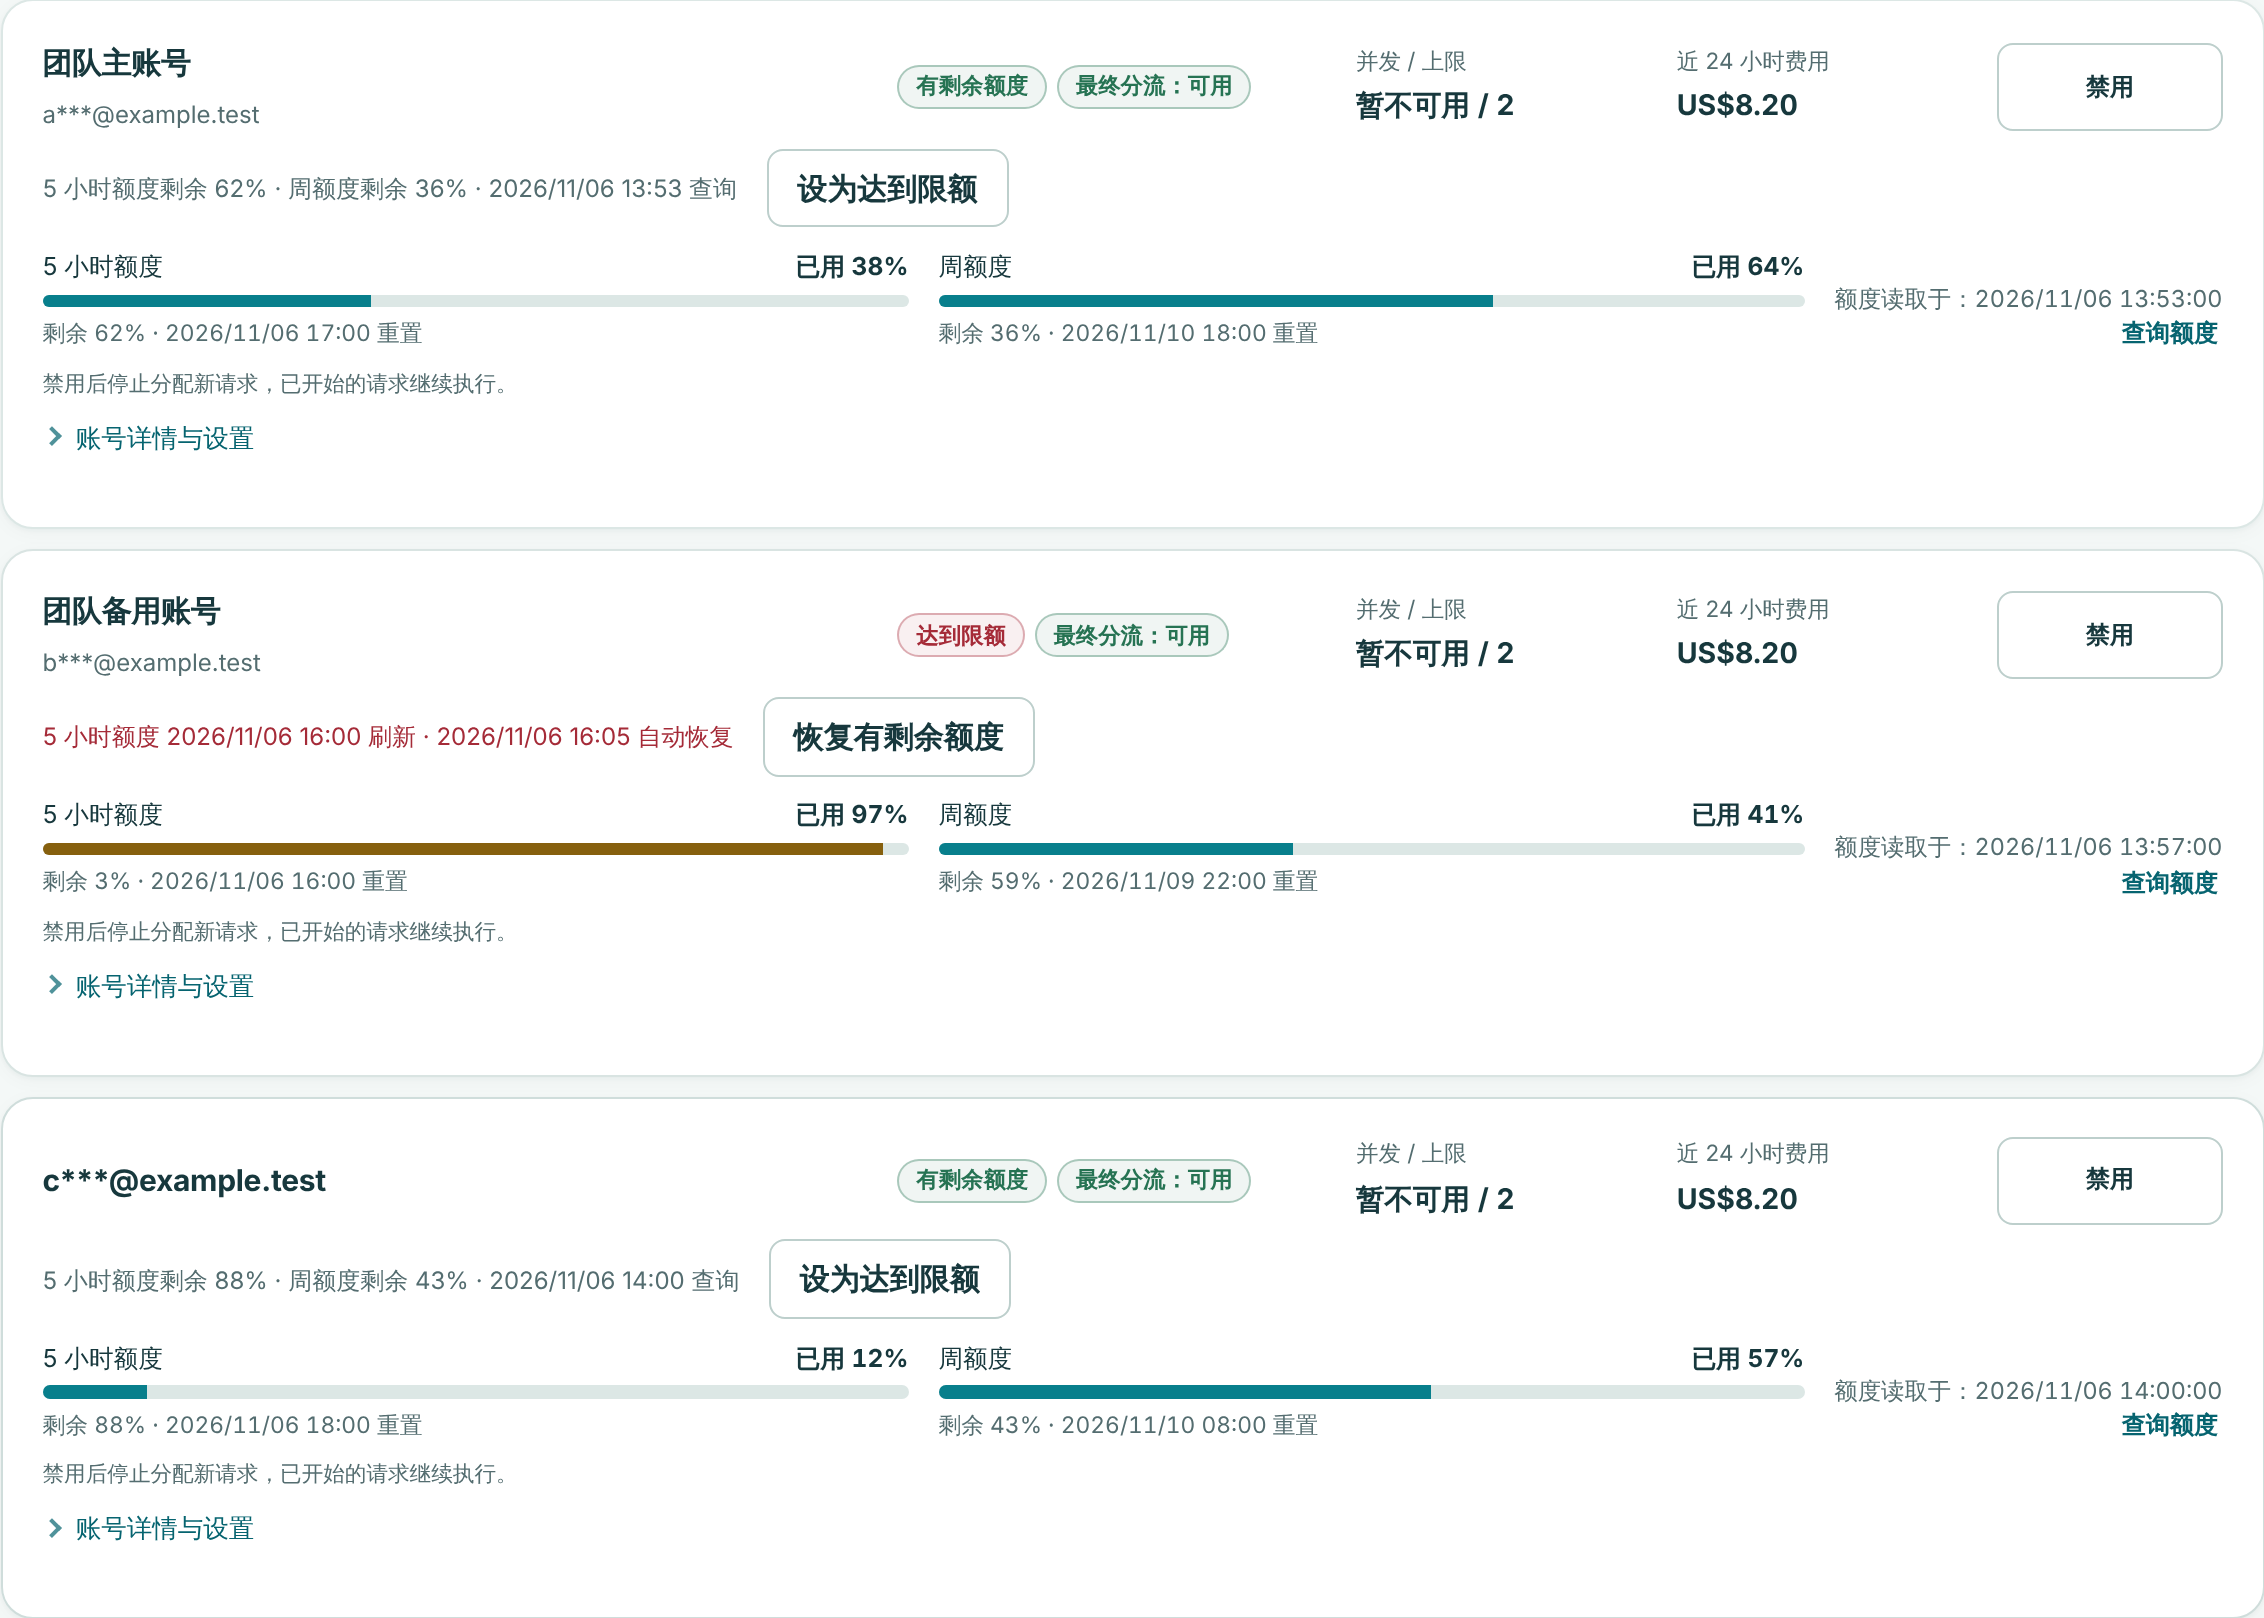
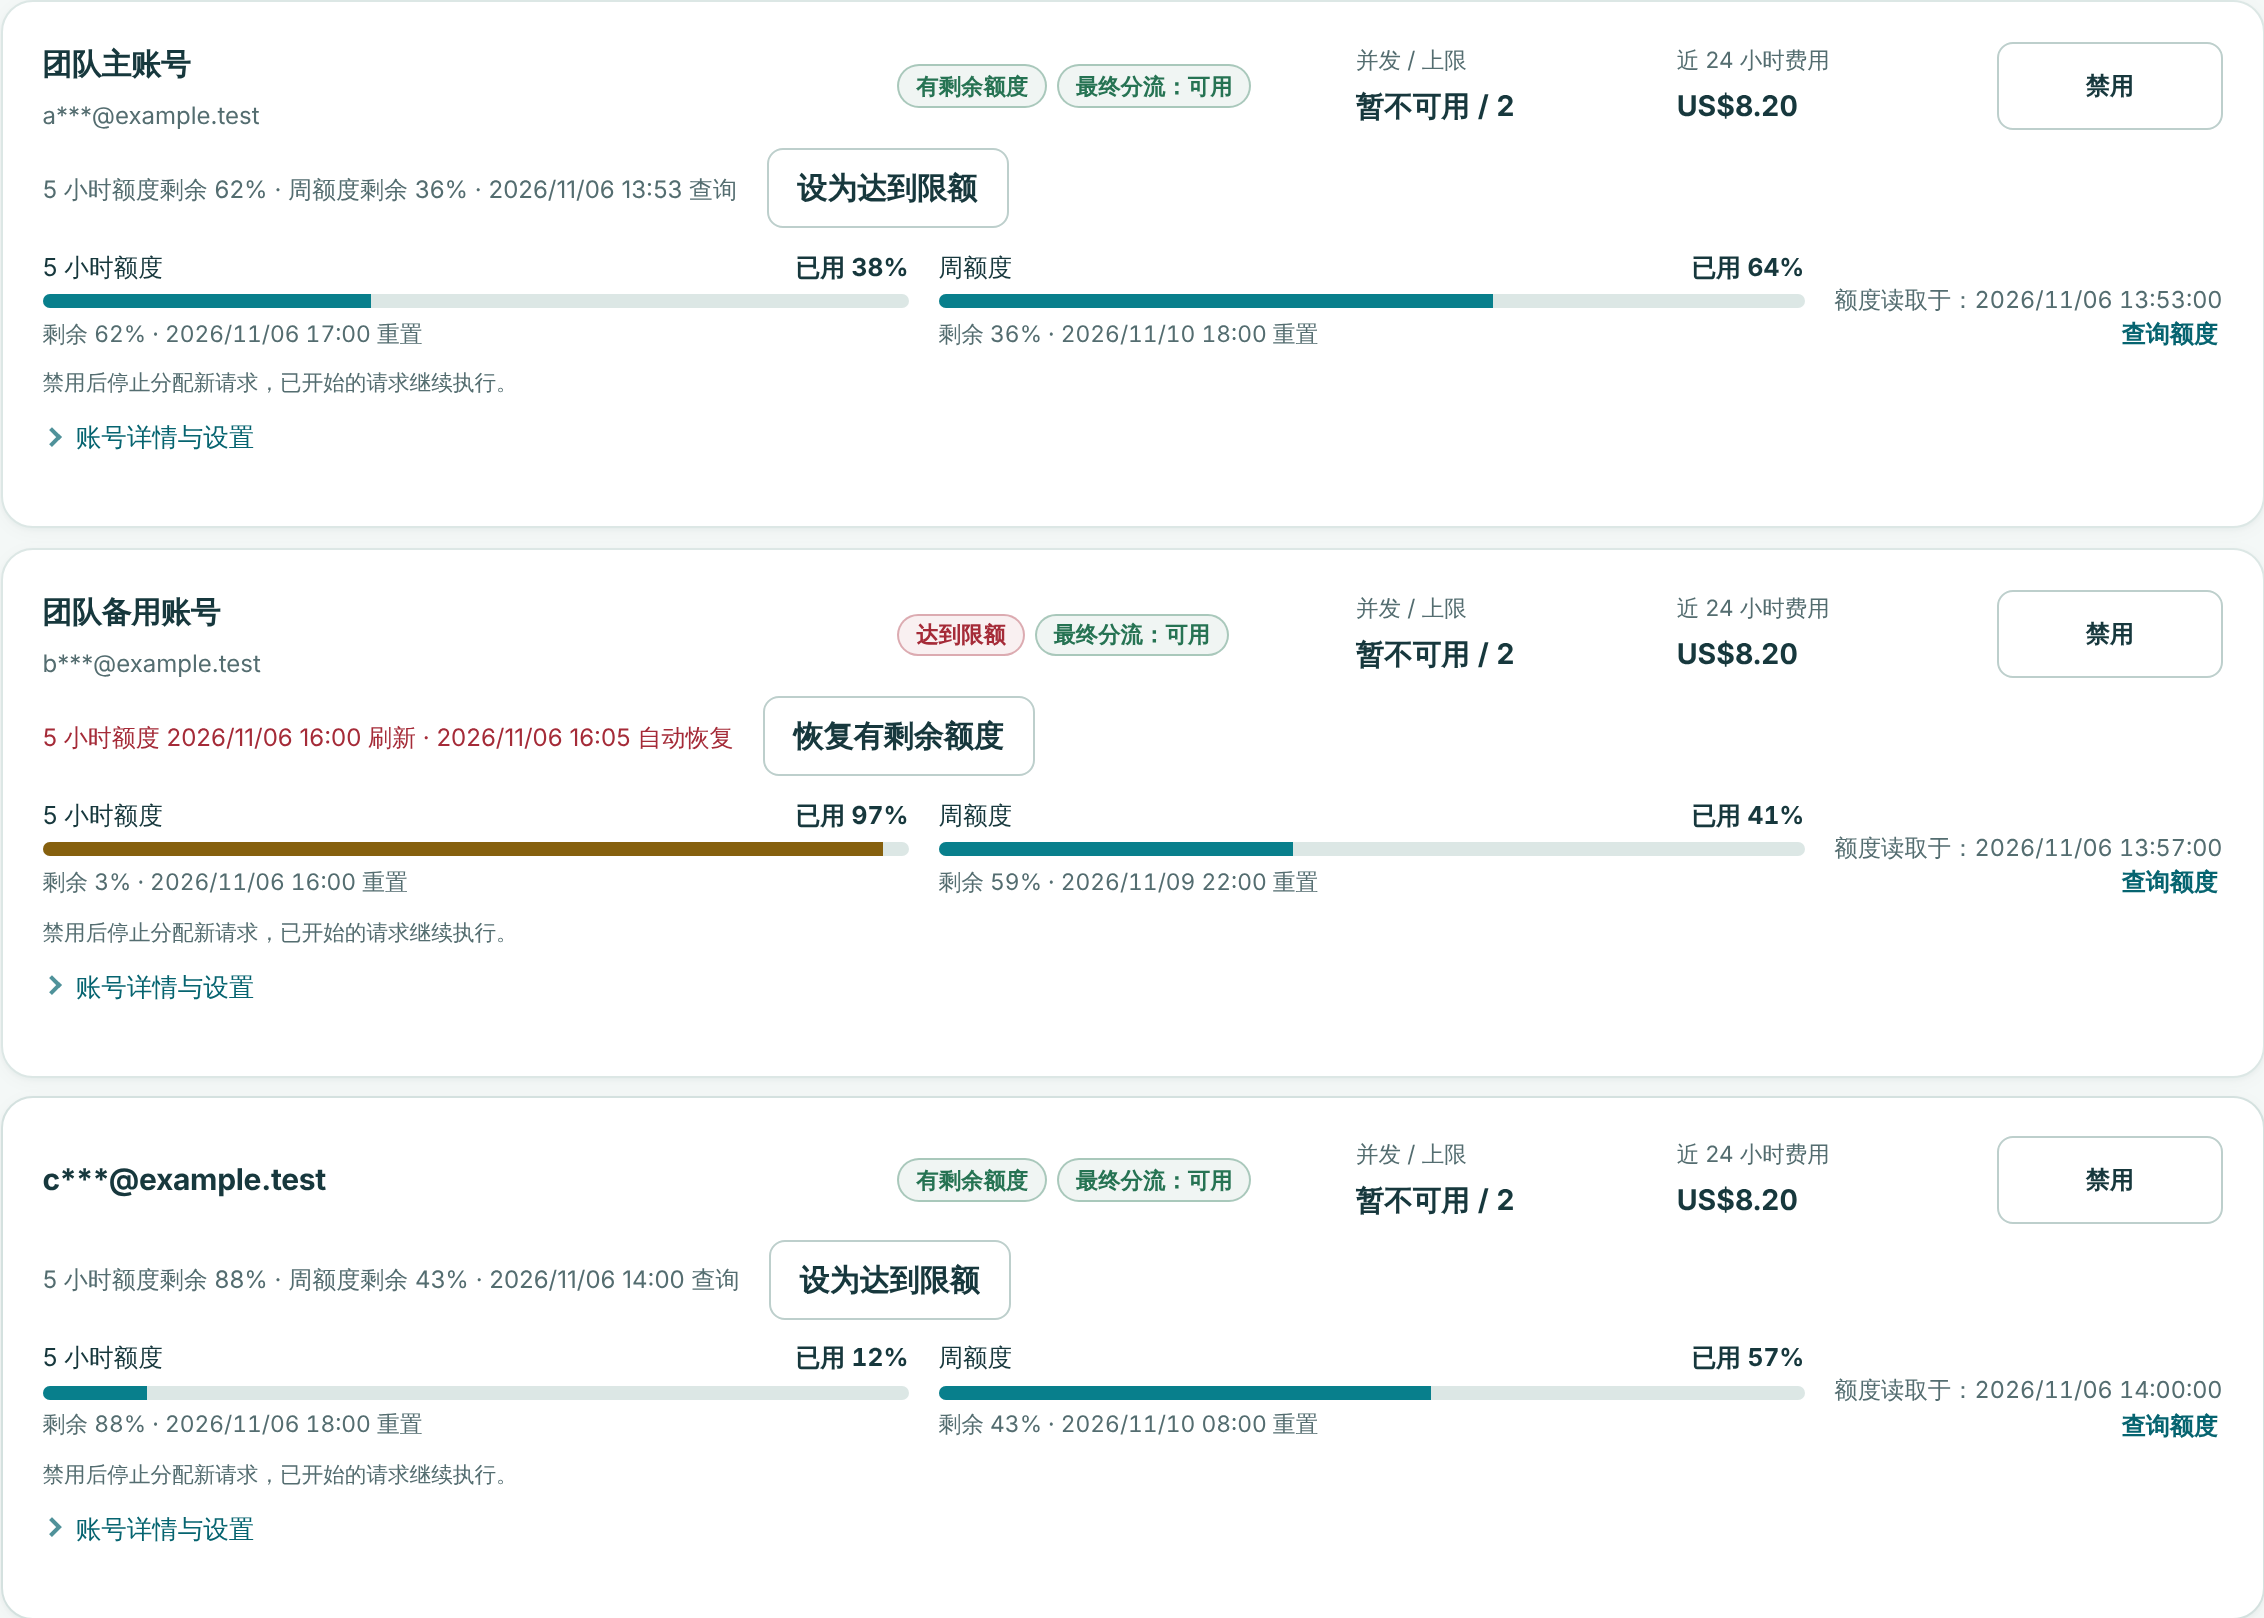
Keep dashboard browser regressions in step with the new views
Put the upstream account list's data time on the match-count line so the
first card stays on a phone's first screen (644.8px, as before). Teach
the Playwright scripts about the collapsed request list and the new
usage-models, usage-breakdown and account-usage endpoints, and park the
pointer before quota screenshots so hover states no longer leak in.

Claude-Session: https://claude.ai/code/session_01SG9iqGoSGZ1MM4WDzixgM4

diff --git a/internal/server/assets/index.html b/internal/server/assets/index.html
@@ -1257,8 +1257,10 @@
             <p id="upstream-account-action-message" class="form-message hidden" role="status" aria-live="polite"></p>
             <p id="upstream-account-refresh-message" class="form-message hidden" role="alert"></p>
             <div id="upstream-account-loading" class="inline-loading hidden" role="status">正在加载上游账号和本地统计…</div>
-            <div class="quota-freshness upstream-account-freshness"><time id="upstream-account-list-time" class="quota-freshness-time">数据时间：尚未加载</time><button id="upstream-account-list-refresh" type="button" class="text-button quota-refresh" aria-label="刷新账号列表、状态与近 24 小时费用">刷新列表</button></div>
-            <p id="upstream-account-match-count" class="upstream-account-period muted" aria-live="polite"></p>
+            <div class="upstream-account-list-meta">
+              <p id="upstream-account-match-count" class="upstream-account-period muted" aria-live="polite"></p>
+              <div class="quota-freshness upstream-account-freshness"><time id="upstream-account-list-time" class="quota-freshness-time">数据时间：尚未加载</time><button id="upstream-account-list-refresh" type="button" class="text-button quota-refresh" aria-label="刷新账号列表、状态与近 24 小时费用">刷新</button></div>
+            </div>
             <p id="upstream-concurrency-sampled" class="upstream-account-period muted" aria-live="polite">实时并发暂不可用 · 每 5 秒刷新</p>
             <p id="upstream-account-no-match" class="empty hidden" role="status">没有匹配的账号，试试其他名称或状态。</p>
             <div id="upstream-account-list" class="upstream-account-grid" aria-live="polite" aria-busy="true">

diff --git a/internal/server/assets/style.css b/internal/server/assets/style.css
@@ -4174,7 +4174,10 @@ button.share-bar-key:hover, .share-bar-key[aria-pressed="true"] { background: va
 .billing-account-usage-head .quota-freshness { margin-top: 0; }
 .group-detail-freshness { margin: .1rem 0 .55rem; }
 .group-list-freshness { margin-top: 0; }
-.upstream-account-freshness { margin: .35rem 0; }
+/* The list's data time shares the match-count line, so the first card stays on a phone's first screen. */
+.upstream-account-list-meta { display: flex; flex-wrap: wrap; align-items: baseline; justify-content: space-between; gap: 0 .75rem; margin: .45rem 0; }
+#upstream-account-manager .upstream-account-list-meta > .upstream-account-period { margin: 0; font-size: .78rem; }
+.upstream-account-list-meta > .upstream-account-freshness { margin: 0; }
 @media (pointer: coarse) {
   .quota-freshness .quota-refresh { min-height: 44px; padding-inline: .5rem; }
 }

diff --git a/docs/quota-visualization-validation.md b/docs/quota-visualization-validation.md
@@ -182,7 +182,17 @@ node internal/server/testdata/quota_visualization_browser.cjs   # 需要 Playwri
 
 浏览器脚本在 1440×1000 与 390×844 视口检查无横向溢出，逐页点击刷新按钮并确认只读取
 对应接口；以生产环境的 CSP（`style-src 'self'`，无内联样式）提供页面并把 CSP 报错视为
-失败，确认线形图通过 CSSOM 设置宽度不受策略阻止。
+失败，确认线形图通过 CSSOM 设置宽度不受策略阻止。截图前把指针移出页面，避免悬停样式
+进入截图。
+
+其余 `*_browser.cjs` 脚本已随改动更新并重新运行：`billing_plans_browser`、
+`dashboard_layout_browser` 先点击“展开请求明细”再操作请求筛选与明细；
+`dashboard_layout_browser`、`information_browser`、`shuiyuan_theme_browser` 的严格模拟
+新增 `/admin/usage/models`，`group_list_browser` 新增 `usage-breakdown` 与 `account-usage`。
+上游账号列表的数据时间与“显示 N / M 个账号”合并为一行，手机首屏（390×844）第一张账号
+卡片位置与改动前一致（`dashboard_layout_browser` 要求顶部低于 650 px，改动前后均为
+644.8 px）。除 `oidc_browser` 外全部通过；`oidc_browser` 在改动前的提交上以同样的断言失败，
+与本改动无关。
 
 验证环境中观察到的两个与本改动无关的既有现象：
 
